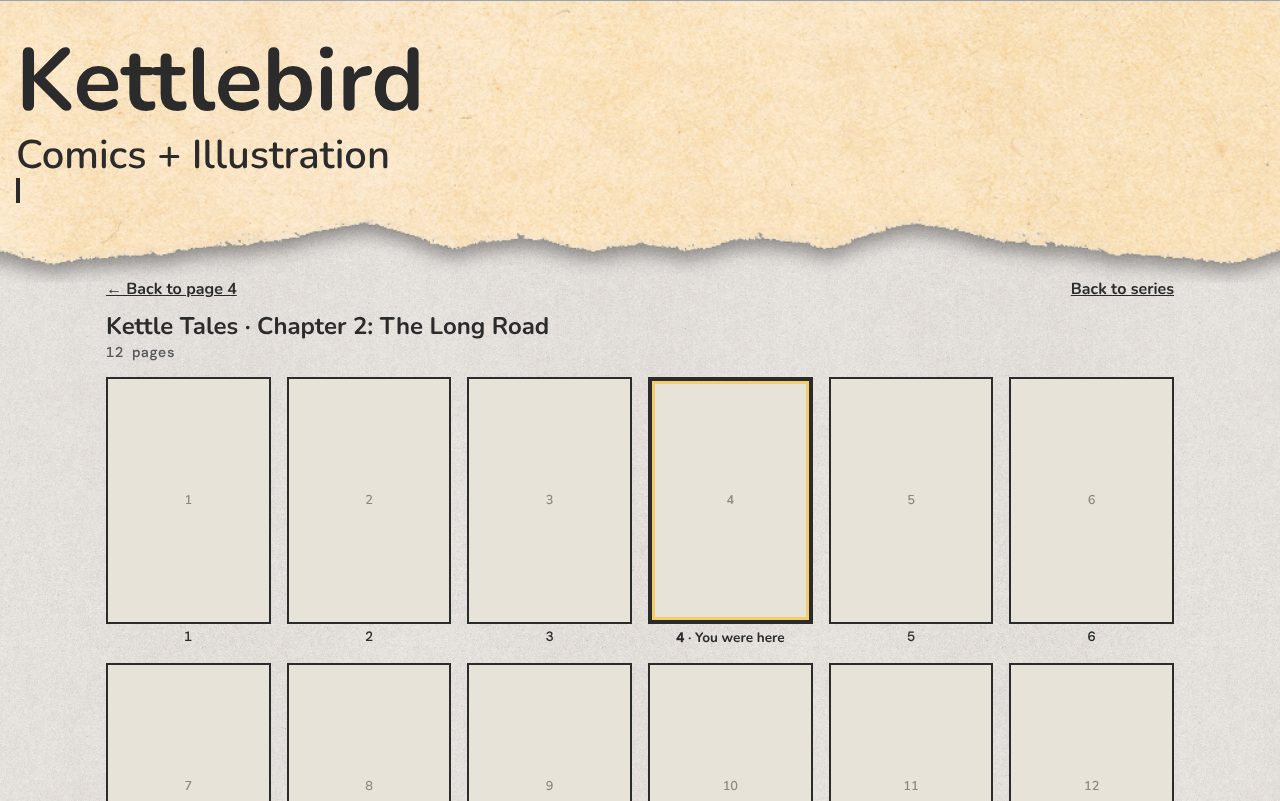
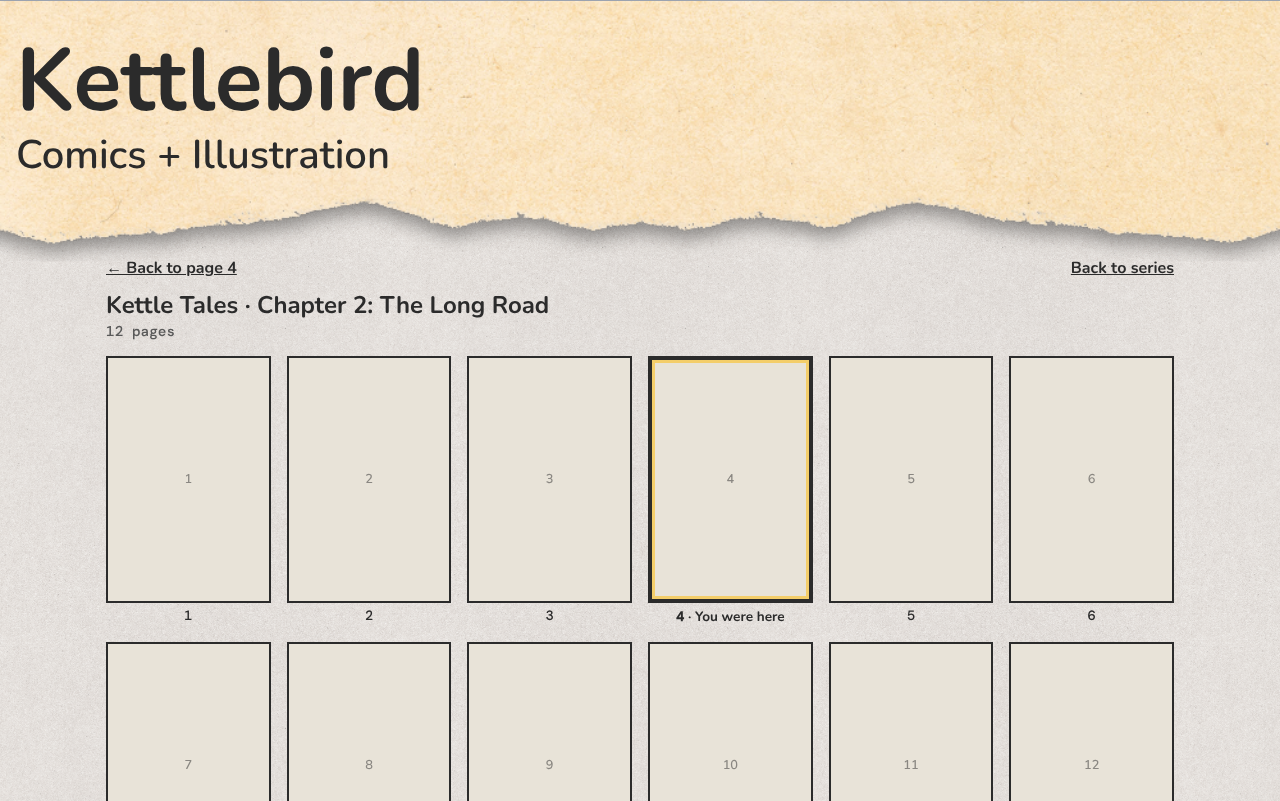
Reader design: walkthrough findings and the lead's decisions
Unusable controls are links without an address with aria-disabled; the row
wraps two by two when captions don't fit; full names say 'of the series';
Last on a complete series; Home and End keep their scrolling (story amended);
the sheet repeats its links, sizes its pictures, has a tab title and isn't
listed; no controls on a one-page series. Mock-ups 7 and 8 added.

Claude-Session: https://claude.ai/code/session_01HWRLNSVAoX5Ni8d8XcwJh1

diff --git a/docs/design/mockups/comic-sheet-and-controls/mockups.html b/docs/design/mockups/comic-sheet-and-controls/mockups.html
@@ -26,6 +26,7 @@
   .menu { width: 44px; height: 44px; border: 2px solid var(--ink); }
   .wide .hdr { display: block; padding: 2rem 1rem calc(max(2.25rem, calc(22px + 3.1cqw)) + 0px); }
   .wide .hdr b { font-size: 5.5rem; }
+  .wide .menu { display: none; }
   .wide .hdr small { font-size: 2.5rem; }
   .scrolled .site-header { display: none; } /* the reader opens scrolled past the header */
 
@@ -46,13 +47,17 @@
   .controls { display: grid; grid-template-columns: 1fr 1fr 1.6fr 1fr; gap: .5rem; max-width: 640px; margin: 1rem auto 0; }
   .ctl { min-height: 56px; border: 3px solid var(--ink); background: var(--beige); color: var(--ink); text-decoration: none;
     display: flex; flex-direction: column; align-items: center; justify-content: center; gap: 2px; position: relative; }
-  .ctl .sym { display: flex; line-height: 0; }
+  .ctl .sym { display: flex; align-items: center; justify-content: center; height: 30px; line-height: 0; }
   .ctl .cap { font: 600 .78rem/1 'Nunito', sans-serif; }
   .ctl.next { background: var(--yellow); }
   .ctl.next .sym svg { width: 30px; height: 30px; }
+  /* With enlarged text on a narrow phone, the row wraps to two by two: Previous | Next, then First | Newest. */
+  .controls.wrapped { grid-template-columns: 1fr 1fr; }
+  .controls.wrapped .ctl:nth-child(1) { order: 3; } .controls.wrapped .ctl:nth-child(2) { order: 1; }
+  .controls.wrapped .ctl:nth-child(3) { order: 2; } .controls.wrapped .ctl:nth-child(4) { order: 4; }
   .ctl.off { border-style: dashed; border-color: #2b2b2b66; color: #2b2b2b66; background: transparent; }
   .ctl.focus { outline: 3px solid var(--focus); outline-offset: 3px; }
-  .tip { position: absolute; top: calc(100% + 8px); left: 50%; transform: translateX(-50%); white-space: nowrap; background: var(--ink); color: var(--beige);
+  .tip { position: absolute; bottom: calc(100% + 8px); left: 50%; transform: translateX(-50%); white-space: nowrap; background: var(--ink); color: var(--beige);
     font: 600 .8rem 'Nunito', sans-serif; padding: .25rem .5rem; }
   .end { text-align: center; margin-top: .75rem; }
   .end p { margin: 0 0 .25rem; }
@@ -123,7 +128,7 @@
   </div>
 </div></div>
 
-<div class="wrap"><h6>4 · Reader on a laptop; Newest has keyboard focus, with its full name shown</h6>
+<div class="wrap"><h6>4 · Reader on a laptop; Newest has keyboard focus, with its full name shown above it</h6>
 <div class="screen wide scrolled" id="m4">
   <div class="reader">
     <div class="bar"><a href="#">Back to series</a><p class="loc">Chapter 2: The Long Road · Page 4 of 12</p><a class="allpages" href="#"><span class="grid-icon"><i></i><i></i><i></i><i></i><i></i><i></i><i></i><i></i><i></i></span>All pages</a></div>
@@ -132,7 +137,7 @@
       <a class="ctl" href="#"><span class="sym"><svg viewBox="0 0 32 24" width="30" height="22" aria-hidden="true"><path d="M30 4 L18 12 L30 20 Z M16 4 L4 12 L16 20 Z" fill="currentColor"/></svg></span><span class="cap">First</span></a>
       <a class="ctl" href="#"><span class="sym"><svg viewBox="0 0 24 24" width="26" height="26" aria-hidden="true"><path d="M17 4 L5 12 L17 20 Z" fill="currentColor"/></svg></span><span class="cap">Previous</span></a>
       <a class="ctl next" href="#"><span class="sym"><svg viewBox="0 0 24 24" width="26" height="26" aria-hidden="true"><path d="M7 4 L19 12 L7 20 Z" fill="currentColor"/></svg></span><span class="cap">Next</span></a>
-      <a class="ctl focus" href="#"><span class="sym"><svg viewBox="0 0 32 24" width="30" height="22" aria-hidden="true"><path d="M2 4 L14 12 L2 20 Z M16 4 L28 12 L16 20 Z" fill="currentColor"/></svg></span><span class="cap">Newest</span><span class="tip">Newest page</span></a>
+      <a class="ctl focus" href="#"><span class="sym"><svg viewBox="0 0 32 24" width="30" height="22" aria-hidden="true"><path d="M2 4 L14 12 L2 20 Z M16 4 L28 12 L16 20 Z" fill="currentColor"/></svg></span><span class="cap">Newest</span><span class="tip">Newest page of the series</span></a>
     </nav>
   </div>
 </div></div>
@@ -144,6 +149,7 @@
     <h1>Kettle Tales · Chapter 2: The Long Road</h1>
     <p class="count">12 pages</p>
     <ul class="thumbs" id="t5"></ul>
+    <div class="sheet-foot"><a href="#">← Back to page 4</a><a href="#">Back to series</a></div>
   </div>
 </div></div>
 
@@ -155,6 +161,36 @@
     <p class="count">12 pages</p>
     <ul class="thumbs" id="t6"></ul>
     <div class="sheet-foot"><a href="#">← Back to page 4</a><a href="#">Back to series</a></div>
+  </div>
+</div></div>
+
+
+<div class="wrap"><h6>7 · A 320 px phone with text enlarged to 200%: the row wraps to two by two</h6>
+<!-- render.mjs sets the root font size to 200% before taking this one, as enlarged text does. -->
+<div class="screen phone scrolled" id="m7" style="width:320px;height:740px"><div>
+  <div class="reader">
+    <div class="bar"><a href="#">Back to series</a><a class="allpages" href="#"><span class="grid-icon"><i></i><i></i><i></i><i></i><i></i><i></i><i></i><i></i><i></i></span>All pages</a><p class="loc" style="flex-basis:100%">Chapter 2: The Long Road · Page 4 of 12</p></div>
+    <div class="page" style="height:200px">Page 4</div>
+    <nav class="controls wrapped">
+      <a class="ctl" href="#"><span class="sym"><svg viewBox="0 0 32 24" width="30" height="22" aria-hidden="true"><path d="M30 4 L18 12 L30 20 Z M16 4 L4 12 L16 20 Z" fill="currentColor"/></svg></span><span class="cap">First</span></a>
+      <a class="ctl" href="#"><span class="sym"><svg viewBox="0 0 24 24" width="26" height="26" aria-hidden="true"><path d="M17 4 L5 12 L17 20 Z" fill="currentColor"/></svg></span><span class="cap">Previous</span></a>
+      <a class="ctl next" href="#"><span class="sym"><svg viewBox="0 0 24 24" width="26" height="26" aria-hidden="true"><path d="M7 4 L19 12 L7 20 Z" fill="currentColor"/></svg></span><span class="cap">Next</span></a>
+      <a class="ctl" href="#"><span class="sym"><svg viewBox="0 0 32 24" width="30" height="22" aria-hidden="true"><path d="M2 4 L14 12 L2 20 Z M16 4 L28 12 L16 20 Z" fill="currentColor"/></svg></span><span class="cap">Newest</span></a>
+    </nav>
+  </div>
+</div></div></div>
+
+<div class="wrap"><h6>8 · A complete series: the double-right control reads Last, so it doesn't promise new pages</h6>
+<div class="screen phone scrolled" id="m8">
+  <div class="reader">
+    <div class="bar"><a href="#">Back to series</a><a class="allpages" href="#"><span class="grid-icon"><i></i><i></i><i></i><i></i><i></i><i></i><i></i><i></i><i></i></span>All pages</a><p class="loc" style="flex-basis:100%">Chapter 1: The Kettle · Page 2 of 3</p></div>
+    <div class="page">Page 2</div>
+    <nav class="controls">
+      <a class="ctl" href="#"><span class="sym"><svg viewBox="0 0 32 24" width="30" height="22" aria-hidden="true"><path d="M30 4 L18 12 L30 20 Z M16 4 L4 12 L16 20 Z" fill="currentColor"/></svg></span><span class="cap">First</span></a>
+      <a class="ctl" href="#"><span class="sym"><svg viewBox="0 0 24 24" width="26" height="26" aria-hidden="true"><path d="M17 4 L5 12 L17 20 Z" fill="currentColor"/></svg></span><span class="cap">Previous</span></a>
+      <a class="ctl next" href="#"><span class="sym"><svg viewBox="0 0 24 24" width="26" height="26" aria-hidden="true"><path d="M7 4 L19 12 L7 20 Z" fill="currentColor"/></svg></span><span class="cap">Next</span></a>
+      <a class="ctl" href="#"><span class="sym"><svg viewBox="0 0 32 24" width="30" height="22" aria-hidden="true"><path d="M2 4 L14 12 L2 20 Z M16 4 L28 12 L16 20 Z" fill="currentColor"/></svg></span><span class="cap">Last</span></a>
+    </nav>
   </div>
 </div></div>
 

diff --git a/docs/design/comic-sheet-and-controls.md b/docs/design/comic-sheet-and-controls.md
@@ -3,7 +3,7 @@ id: design-comic-sheet-and-controls
 status: draft
 derived-from:
   - story-comic-reader-contact-sheet: 7f9684183ed2
-  - story-comic-reader-play-controls: 7b554943ac4c
+  - story-comic-reader-play-controls: 7d9e07932238
   - design-comic-turn-pages#layout: a26d566f95d8
   - design-comic-turn-pages#states-and-errors: d45ab0902ca3
   - design-comic-start-reading#page-addresses: 108059c3ef86
@@ -28,16 +28,16 @@ design-comic-turn-pages (see "Other documents"). -->
 
 **Turning pages** (story 7)
 
-1. Under the page, four controls: **First**, **Previous**, **Next** and **Newest** (mock-up 1).
+1. Under the page, four controls: **First**, **Previous**, **Next** and **Newest** (mock-up 1). On a complete series the last one reads **Last** instead of **Newest** (mock-up 8), so it doesn't promise new pages.
 2. **Previous** and **Next** turn one page, exactly as **Previous page** and **Next page** did, including across chapters.
-3. **First** opens page 1 of the series' first chapter that has pages. **Newest** opens the series' newest page: the last page of its last chapter that has pages.
+3. **First** opens page 1 of the series' first chapter that has pages. **Newest** (or **Last**) opens the series' newest page: the last page of its last chapter that has pages.
 4. On the first page of the series, **First** and **Previous** can't be used (mock-up 2). On the newest page, **Next** and **Newest** can't be used, and the end note shows under the controls as now (mock-up 3).
 
 **Seeing a chapter's pages** (story 6)
 
 1. In the reader bar, **All pages** opens the contact sheet for the chapter the fan is in (mock-ups 1 and 4).
 2. The sheet shows every page of that chapter as a small picture, in order, numbered, three a row on a phone and as many as fit on wider screens. The page the fan came from is marked "You were here", and the sheet opens scrolled to it (mock-ups 5 and 6).
-3. Choosing a picture opens that page in the reader. **← Back to page 4** (the page they came from), or the browser's back button, returns them where they were.
+3. Choosing a picture opens that page in the reader. **← Back to page 4** (the page they came from), or the browser's back button, returns them where they were. The links are both above and under the pictures, so a long chapter never means scrolling back up.
 
 ## Addresses
 
@@ -57,15 +57,19 @@ Built to match the reader as it is: its fonts, colours, borders and reader bar. 
 | 4 | Reader on a laptop, with **Newest** focused by keyboard and its full name shown | `mockups/comic-sheet-and-controls/4-reader-laptop.png` |
 | 5 | Contact sheet on a phone, opened from page 4 | `mockups/comic-sheet-and-controls/5-sheet-phone.png` |
 | 6 | Contact sheet on a laptop | `mockups/comic-sheet-and-controls/6-sheet-laptop.png` |
+| 7 | A 320 px phone with text enlarged to 200%: the row wraps to two by two | `mockups/comic-sheet-and-controls/7-text-200-narrow.png` |
+| 8 | A complete series: **Last** in place of **Newest** | `mockups/comic-sheet-and-controls/8-complete-series.png` |
 
 ## Layout
 
 **The controls**
 
 - One row under the page, in the order **First**, **Previous**, **Next**, **Newest**, at most 640 px wide and centred, as the old pair was.
+- When the captions don't fit on one row (enlarged text on a narrow phone), the row wraps to two by two, with the ones used most on top: **Previous** and **Next**, then **First** and **Newest** (mock-up 7). Nothing is shortened or hidden.
+- The reader page leaves room for the bar, with **All pages**, and the controls: on a 360 × 640 phone, the page and the controls both fit on the first screen.
 - Each control is a bordered box at least 56 px tall, with a drawn arrowhead icon above a short caption: two arrowheads pointing left for **First**, one for **Previous**, one pointing right for **Next**, two for **Newest**, as Star asked. The icons are drawn (SVG), not typed characters, because phones draw characters like ⏭ as colourful emoji of their own.
 - **Next** is the widest (1.6 times the others) and yellow, as **Next page** was, because it's used most. The others are beige.
-- The captions are always visible, on phones too, where there's no hovering: "First", "Previous", "Next", "Newest". On hover or keyboard focus, the full name shows in a small label under the control: "First page", "Previous page", "Next page", "Newest page" (mock-up 4).
+- The captions are always visible, on phones too, where there's no hovering: "First", "Previous", "Next", "Newest" (or "Last"). On hover or keyboard focus, the full name shows in a small label above the control, where it never covers the end note: "First page of the series", "Previous page", "Next page", "Newest page of the series" (or "Last page of the series") (mock-up 4). The full names say "of the series" because, beside "Chapter 4 · Page 3 of 6", "First" alone could mean the chapter's first page. The icons are all the same height, so the captions line up.
 - A control that can't be used stays in its place, with a dashed, faded border and faded icon, so the others never move (mock-ups 2 and 3).
 - On wide screens, the quiet arrows at the page's left and right edges stay, for **Previous** and **Next** (design-comic-turn-pages).
 
@@ -75,30 +79,32 @@ Built to match the reader as it is: its fonts, colours, borders and reader bar. 
 
 **The contact sheet**
 
+- The tab's title: "Chapter 2, all pages · Kettle Tales · Kettlebird Creations".
 - The site header, then a bar with **← Back to page 4** on the left and **Back to series** on the right.
-- The heading: the series and chapter, "Kettle Tales · Chapter 2: The Long Road", then the number of pages, "12 pages".
+- The heading: the series and the chapter as the reader names it (so a prologue numbered 0 shows its title), "Kettle Tales · Chapter 2: The Long Road", then the number of pages, "12 pages". A series the reader shows without chapter names has the series' title alone.
 - The pictures: three a row on a phone (about 110 px wide on a 390 px phone), as many as fit on wider screens (each at least 150 px). Each picture keeps the page's shape, with a thin border, and its page number under it.
 - The marked picture has a thick border with a yellow inner line, and "4 · You were here" under it.
-- On wider screens, the bar's two links repeat under the pictures, so a long chapter doesn't mean scrolling back up.
-- Pictures are small images made for the sheet (about 300 px wide, or less on a phone), loaded as they come into view, never the full pages.
+- The bar's two links repeat under the pictures at every width, so a long chapter doesn't mean scrolling back up.
+- Pictures are small images made for the sheet (about 300 px wide, or less on a phone), loaded as they come into view, never the full pages. Each picture's box has its size before its image loads, so the page doesn't jump while scrolling, and the marked picture lands below the top of the screen, not under its edge.
+- Search engines are asked not to list the sheets, since a chapter has one per page.
 
 ## States and errors
 
 - **First page of the series:** **First** and **Previous** can't be used.
 - **Newest page:** **Next** and **Newest** can't be used. Under the controls, the end note from design-comic-turn-pages: **You're all caught up!**, the line for the series' status, and **Back to series**.
-- **A series with one page:** all four controls can't be used; the end note shows.
+- **A series with one page:** no controls at all, since none could be used; just the end note.
 - **A chapter with one page:** no **All pages** in the bar, and no sheet for that page.
 - **First page of a later chapter:** **Previous** goes to the last page of the chapter before, as now; **First** still goes to the series' first page.
 - **A picture still loading:** its box shows the paper colour and its page number until the picture appears.
-- **Keys:** the left and right arrow keys turn pages as now. Home goes to the first page and End to the newest, with the same rules as the arrow keys: not while focus is in a text field, a modifier key is held, or the page is zoomed in. Home and End do nothing on the contact sheet, where they scroll as usual.
+- **Keys:** the left and right arrow keys turn pages as now. Home and End keep their usual scrolling (lead, 2026-11-02): **First** and **Newest** are reached with Tab like the other controls.
 
 ## Accessibility
 
-- The controls stay links (`<a href>`), in a navigation region named "Page navigation", reached with Tab in order. Their names are the full names, "First page", "Previous page", "Next page", "Newest page", not the captions, so a screen reader says what each does. The icons are hidden from screen readers.
-- A control that can't be used is not a link: it's text marked `aria-disabled="true"` with the same name, so a screen reader hears "First page, dimmed" (or "unavailable") and Tab skips it.
+- The controls stay links (`<a href>`), in a navigation region named "Page navigation", reached with Tab in order. Their names are the full names, "First page of the series", "Previous page", "Next page", "Newest page of the series" (or "Last page of the series"), which contain the captions, so voice control works by the visible word too. The icons are hidden from screen readers.
+- A control that can't be used is a link with no address: `<a role="link" aria-disabled="true">` with the same name. Screen readers announce it as dimmed or unavailable, Tab skips it, and the arrow keys and swipes ignore it.
 - The full-name label on hover and focus is for sighted keyboard and mouse users; it's not announced twice.
 - **All pages** is a link named "All pages in this chapter".
-- On the sheet: a list of links, each named by its page number and the page's alt text, "Page 4: Rain on the road", or "Page 4" without alt text. The marked one also has `aria-current="page"`, and its "You were here" is part of its name.
+- On the sheet: a list of links, each named by its page number and the page's alt text, "Page 4: Rain on the road", or "Page 4" without alt text. The marked one's name adds "You were here". (It isn't marked as the current page for screen readers: the sheet is the current page.)
 - The sheet's heading is a level-one heading, so it's announced on arrival.
 - Focus is visible on every control and picture (the site's focus ring), and all targets are at least 44 px; the controls are 56 px tall.
 
@@ -110,12 +116,32 @@ Built to match the reader as it is: its fonts, colours, borders and reader bar. 
 
 ## For the spec to check
 
-- Every reader page has its sheet at `<page address>/pages`, built ahead of time; a chapter with one page has none.
-- The controls' order, names, captions, icons (SVG, hidden from screen readers), the full-name label on hover and focus, **Next**'s width and colour, sizes, and the unusable states (not links, `aria-disabled`, same place).
-- **First** and **Newest** go to the series' first and newest pages, skipping empty chapters; Home and End do the same, with the arrow keys' rules.
-- On the sheet: the order, numbers, the marked picture (`aria-current`, "You were here"), the scroll position, **← Back to page N**, picture sizes (small images, loaded lazily), three a row on a 360 or 390 px phone, link names with alt text.
+- Every reader page has its sheet at `<page address>/pages`, built ahead of time, with its tab title and a request not to be listed by search engines; a chapter with one page has none.
+- The controls' order, names, captions (**Last** on a complete series), icons (SVG, hidden from screen readers), the full-name label on hover and focus, **Next**'s width and colour, sizes, the two-by-two wrap, and the unusable states (links without an address, `role="link"`, `aria-disabled`, same place); no controls on a one-page series.
+- On a 360 × 640 phone, the controls are on the first screen with the page.
+- **First** and **Newest** go to the series' first and newest pages, skipping empty chapters. Home and End are not used.
+- On the sheet: the order, numbers, the marked picture ("You were here" in its name), the scroll position, **← Back to page N** above and under the pictures, picture sizes (small images, loaded lazily, with their boxes sized), three a row on a 360 or 390 px phone, link names with alt text, the heading for a series without chapter names.
 - No horizontal scrolling on a 320 px phone with text at 200%, on the reader or the sheet.
 
-## Open questions
+## Decisions at review
 
-1. **The caption under Previous.** "Previous" is the longest caption; on a 320 px phone it's tight. If it doesn't fit there, "Back" is the alternative. The spec will check, and the mock-ups use "Previous".
+The lead decided two questions the walkthrough raised (2026-11-02):
+1. **Home and End:** not used. They keep their usual scrolling, because a keyboard user pressing End to reach the controls would otherwise jump to the newest page and could spoil the story. The play-controls story is amended to match.
+2. **A complete series:** the double-right control reads **Last** ("Last page of the series"), not **Newest**, which would promise new pages.
+
+## Persona walkthrough
+
+A walkthrough for persona-fan (2026-11-02), on a phone from a social link, by keyboard, and with a screen reader, checked the design against both stories, the approved reader designs and the reader's code. It found two blocking problems, four misleading and four slower. All are addressed above:
+- **Blocking:**
+  - an unusable control was plain text with `aria-disabled`, which screen readers ignore (now a link without an address, `role="link"`, `aria-disabled`);
+  - on a 320 px phone with 200% text the captions didn't fit, and the "Back" fallback broke voice control (now the row wraps two by two; no fallback word).
+- **Misleading:**
+  - "First" beside a chapter's location read as the chapter's first page (now "of the series" in the full names);
+  - the marked picture claimed to be the current page (now "You were here" only);
+  - Home and End clashed with scrolling (the lead's decision, above);
+  - **Newest** on a complete series jumps to the ending (the lead's decision, above).
+- **Slower:**
+  - a long chapter on a phone hid the back link and heading (the links now repeat at every width; the picture boxes are sized; the scroll position leaves room);
+  - the controls fell below the first screen on a 360 × 640 phone (the page now leaves room);
+  - the sheet's tab title, a prologue's heading, and listing by search engines were undefined (now defined);
+  - four dead controls on a one-page series looked broken (now none).

diff --git a/docs/product/stories/comic-reader/play-controls.md b/docs/product/stories/comic-reader/play-controls.md
@@ -23,8 +23,8 @@ As a fan, I want the reader's page buttons to work like a media player's (one ar
 - The reader's **Previous page** and **Next page** buttons are replaced by four controls, in this order: first page (⏮), previous page (◀), next page (▶) and newest page (⏭).
 - ◀ and ▶ turn one page back or forward, exactly as **Previous page** and **Next page** do now (story-comic-reader-turn-pages), including moving between chapters.
 - ⏮ opens the first page of the series (page 1 of its first chapter with pages). ⏭ opens the series' newest page (the last page of its last chapter with pages).
-- Each control has a name for screen readers and a visible label on hover and keyboard focus: "First page", "Previous page", "Next page", "Newest page".
+- Each control has a name for screen readers and a visible label on hover and keyboard focus: "First page of the series", "Previous page", "Next page", "Newest page of the series". On a complete series, newest page is called last page ("Last page of the series"), so it doesn't promise new pages (lead, 2026-11-02).
 - The controls keep their positions on every page. On the first page of the series, ⏮ and ◀ can't be used; on the newest page, ▶ and ⏭ can't be used, and "You're all caught up" and **Back to series** show as now. A control that can't be used looks it, and says so to screen readers.
 - Each control is at least 48 pixels tall and wide on a phone, with ▶ the most prominent, since it's used most.
-- Swiping and the left and right arrow keys work as now; the Home and End keys go to the first and newest page, as long as focus isn't in a text field.
+- Swiping and the left and right arrow keys work as now. The Home and End keys keep their usual scrolling (lead, 2026-11-02).
 - The controls are links, like the buttons they replace, so they work without scripts and each has its own address.
